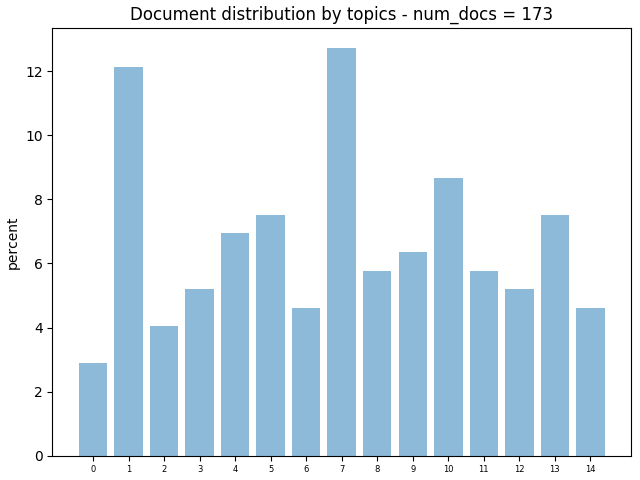
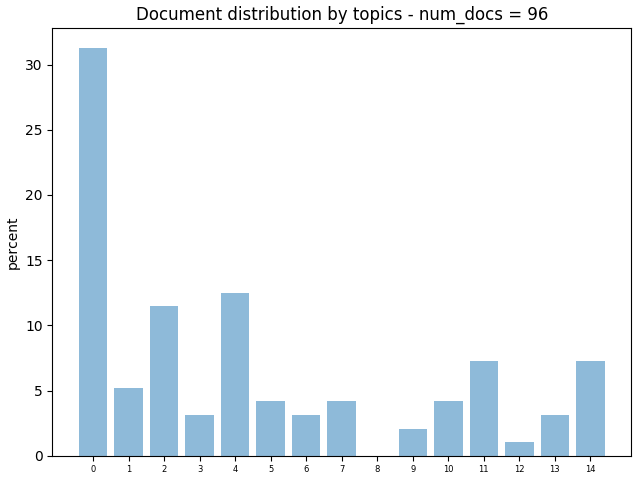
change policy merge trending + keep old trending

diff --git a/master.py b/master.py
@@ -9,15 +9,15 @@ from collections import Counter
 from multiprocessing import Process
 import time, datetime
 import warnings
-from event_detection.topics import get_jaccard_similarity, MERGE_THRESHOLD
+from event_detection.topics import get_jaccard_similarity
 from sklearn.externals import joblib
 from tokenizer import utils
 
 
 
-
 warnings.filterwarnings('ignore', category=UserWarning)
 
+TRENDING_MERGE_THRESHOLD = 0.1
 
 class master:
     def __init__(self):
@@ -70,19 +70,22 @@ class master:
                         docs1 = set(docs_trending[domain][k1])
                         docs2 = set(self.docs_trending[domain][k2])
                         jaccard = get_jaccard_similarity(docs1, docs2)
-                        if jaccard > MERGE_THRESHOLD:
+                        if jaccard > TRENDING_MERGE_THRESHOLD:
                             print('[%s] topic %d - %s <==> topic %d - %s' %
                                   (domain, k1, trending_titles[domain][k1],
                                    k2, self.trending_titles[domain][k2]))
                             trending_titles[domain][k1] = self.trending_titles[domain][k2]
                             docs_trending[domain][k1] = list(docs1.union(docs2))
+                            del self.trending_titles[domain][k2]
+                            del self.docs_trending[domain][k2]
                             break
             except:
                 self.trending_titles.update({domain : trending_titles[domain]})
                 self.docs_trending.update({domain : docs_trending[domain]})
                 continue
-            self.trending_titles[domain] = trending_titles[domain]
-            self.docs_trending[domain] = docs_trending[domain]
+            for k in trending_titles[domain].keys():
+                self.trending_titles[domain].update({k : trending_titles[domain][k]})
+                self.docs_trending[domain].update({k : docs_trending[domain][k]})
 
 
     def update_counter(self, labels):
@@ -118,7 +121,7 @@ class master:
         trending_titles = {}
         domains = []; events = {}
         for i, label in enumerate(self.counter.keys()):
-            # if label != 7: continue # topic 'The thao'
+            # if label != 0: continue
             domain = my_map.label2name[label]
             ndocs = self.counter[label]
             event = self.config_event_detection(domain, ndocs)

diff --git a/event_detection/topics.py b/event_detection/topics.py
@@ -21,7 +21,8 @@ matplotlib.rcParams.update({'xtick.labelsize' : 6})
 TOPIC_PROBABILITY_THRESHOLD = 0.35
 TOPIC_MERGE_PROBABILITY_THRESHOLD = 0.15
 TOP_DOCUMENTS = 5
-MERGE_THRESHOLD = 0.5
+TOPIC_MERGE_THRESHOLD = 0.5
+
 
 # print topics to file
 def print_topics(beta_file, topics_title, vocab_file, nwords, result_file):
@@ -122,7 +123,7 @@ def merge_step_one(topics_dup):
         for k2, s2 in topics_dup.items():
             if k1 >= k2: continue
             jaccard = get_jaccard_similarity(s1, s2)
-            if jaccard > MERGE_THRESHOLD:
+            if jaccard > TOPIC_MERGE_THRESHOLD:
                 exist = False
                 for i in xrange(len(step_one)):
                     if k1 in step_one[i] or k2 in step_one[i]:

diff --git a/run.py b/run.py
@@ -47,6 +47,20 @@ app = Flask(__name__, static_url_path='',
             template_folder='templates')
 
 
+# prevent cached responses
+@app.after_request
+def add_header(r):
+    """
+    Add headers to both force latest IE rendering engine or Chrome Frame,
+    and also to cache the rendered page for 10 minutes.
+    """
+    r.headers["Cache-Control"] = "no-cache, no-store, must-revalidate"
+    r.headers["Pragma"] = "no-cache"
+    r.headers["Expires"] = "0"
+    r.headers['Cache-Control'] = 'public, max-age=0'
+    return r
+
+
 @app.route('/', methods = ['GET'])
 def homepage():
     return app.send_static_file('event.html')
